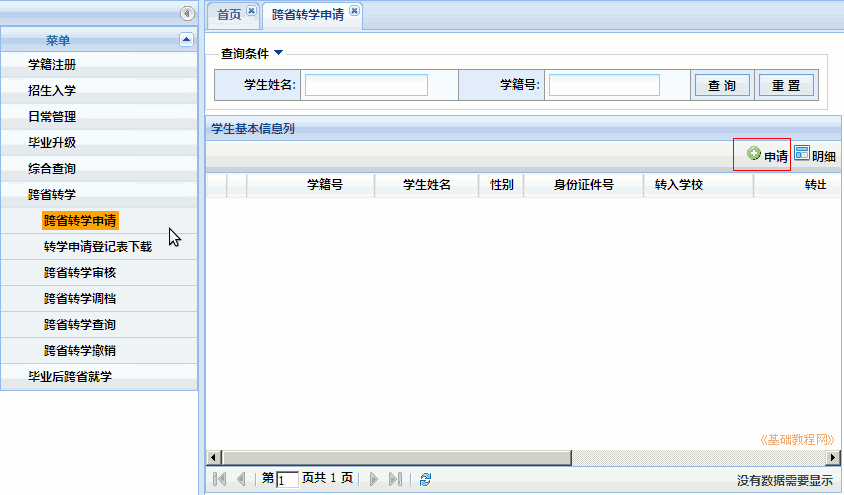
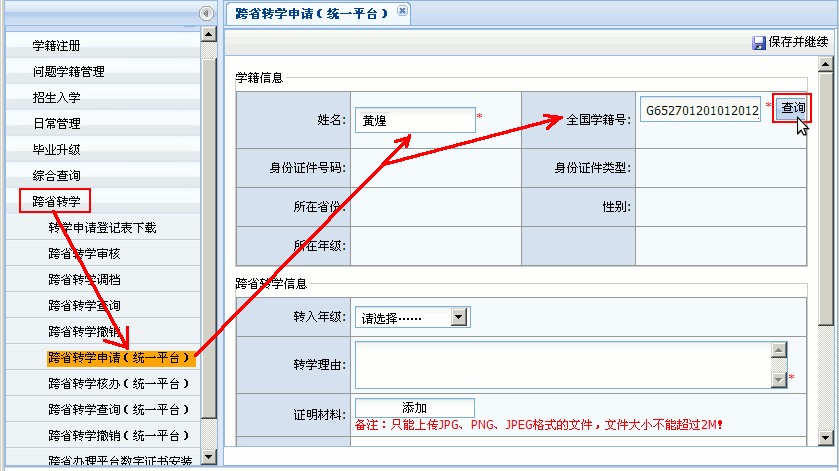
2019年 05月 04日 星期六 19:01:36 CST

diff --git a/mix/Texj/lesson30/lesson30.html b/mix/Texj/lesson30/lesson30.html
@@ -16,28 +16,31 @@
 <p class="title">全国中小学生学籍管理系统操作指南</p>
 <p class="green">作者：TeliuTe　来源：基础教程网</p>
 <span class="tblue">三十、跨省转学申请、审核、查询、撤销</span>　<a href="../index.html">返回目录</a>　<a href="../lesson31/lesson31.html">下一课</a>
-<p>　跨省转学是在两个省级之间进行转学，申请表上需要盖四个章；</p>
+<p>　跨省转学是在两个省级之间进行转学，小学六年级升初中的跨省就学也在跨省转学里面；</p>
 <p class="tblue">　1、跨省转学申请、审核、查询、撤销</p>
-<p>　1）依次点“学籍管理－跨省转学－跨省转学申请”，出来申请面板；</p>
+<p>　1）依次点“学籍管理－跨省转学－跨省转学申请”，出来申请面板，输入学生的姓名、学籍号，点右边的“查询”按钮，出来学生信息面板，红星必填；</p>
 <p>　<img src="images/a1across.png" alt="a1across.png" /></p>
 <p>　</p>
-<p>　2）点右边的“申请”按钮，出来学生信息面板，红星必填，点“添加－浏览”打开申请表照片，最后点右上角“保存”返回；</p>
+<p>　2）学生的学籍号，可以在“综合查询 - 全国学籍查询”里获得；</p>
+<p>　<img src="images/a2nation.png" alt="a2nation.png" /></p>
+<p>　</p>
+<p>　选择转入年级，班级等转过来了记着再分班，参考：<a href="../lesson5/lesson5.html">学生分班</a>，一般不需要证明材料，检查无误，最后点右上角“保存并继续”；</p>
 <p>　<img src="images/a2input.png" alt="a2input.png" /></p>
 <p>　</p>
-<p>　3）再在左侧栏点“跨省转学审核”，选择一个学生，点右上角“核办”，默认是转入审核，上边还有一个“跨省转出”标签；</p>
+<p>　3）再在左侧栏点“跨省转学审核”，选择一个学生，点右上角“核办”；</p>
 <p>　<img src="images/a3approve.png" alt="a3approve.png" /></p>
 <p>　</p>
-<p>　4）在核办意见里选择“同意”，点右上角“确定”按钮，如果不同意，则需注明原因；</p>
+<p>　4）在核办意见里选择“同意”，点右上角“确定”按钮，如果不同意，则需输入原因；</p>
 <p>　<img src="images/a4approve.png" alt="a4approve.png" /></p>
 <p>　</p>
-<p>　5）点左侧栏“跨省转学查询”，右边默认会列出未完成的学生列表，注意看转学状态和待核办单位；</p>
+<p>　5）点左侧栏“跨省转学查询”，右边默认会列出未完成的学生列表，注意看转学状态和待核办单位，通知班主任联系家长去询问一下；</p>
 <p>　<img src="images/a5query.png" alt="a5query.png" /></p>
 <p>　</p>
-<p>　6）跨省转学申请经过，上级审核通过，转出省审核通过，对方学校通过，对方学校主管通过后，会提示一条“可以调档”，</p>
-<p>　在首页点击提示，或者在左边选择“跨省转学调档”，可以调取学生档案，完成转学；</p>
+<p>　6）跨省转学申请经过：上级审核通过，转出省校验通过，对方学校通过，对方学校主管通过后，完成；</p>
+<p>　在“查询”页面，选择一条记录，点右边的“明细”，可以查看当前转学状态；</p>
 <p>　<img src="images/a6achive.png" alt="a6achive.png" /></p>
 <p>　</p>
-<p>　7）在是否转学完毕里，选择“异常结束”，可以查看所有转学失败的学生列表；</p>
+<p>　7）在完成状态里，选择“被驳回”或校验不通过，可以查看所有转学失败的学生列表，也可以在右边选择时间段，查看指定日期范围的转学情况；</p>
 <p>　<img src="images/a6list.png" alt="a6list.png" /></p>
 <p>　</p>
 <p>　8）选择一个学生，点“明细”查看未通过的原因，根据提示进行相应处理；</p>
